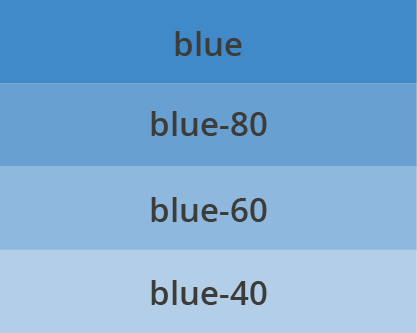
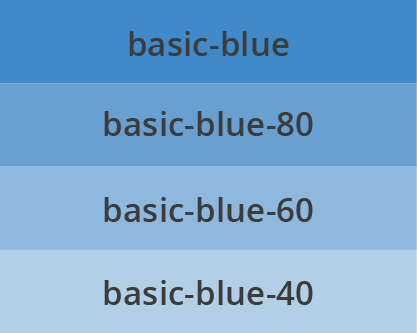
added color classes

diff --git a/webui/css/bridge.css b/webui/css/bridge.css
@@ -811,3 +811,225 @@ h3{
     font-style:italic;
     text-transform:uppercase;
     }
+
+/* colors */
+
+.basic-blue{
+background-color:#418AC9;
+}
+.basic-blue-font{
+color:#418AC9;
+}
+.basic-blue-100{
+background-color:#418AC9;
+}
+.basic-blue-font-100{
+color:#418AC9;
+}
+.basic-blue-80{
+background-color:#68A1D4;
+}
+.basic-blue-font-80{
+color:#68A1D4;
+}
+.basic-blue-60{
+background-color:#8EB9DF;
+}
+.basic-blue-font-60{
+color:#8EB9DF;
+}
+.basic-blue-40{
+background-color:#B3D0E9;
+}
+.basic-blue-font-40{
+color:#B3D0E9;
+}
+
+.green{
+background-color:#4EA175;
+}
+.green-font{
+color:#4EA175;
+}
+.green-100{
+background-color:#4EA175;
+}
+.green-font-100{
+color:#4EA175;
+}
+.green-80{
+background-color:#7AB997;
+}
+.green-font-80{
+color:#7AB997;
+}
+.green-60{
+background-color:#A7D0BA;
+}
+.green-font-60{
+color:#A7D0BA;
+}
+.green-40{
+background-color:#D3E6DC;
+}
+.green-font-40{
+color:#D3E6DC;
+}
+
+.red{
+background-color:#D53F26;
+}
+.red-font{
+color:#D53F26;
+}
+.red-100{
+background-color:#D53F26;
+}
+.red-font-100{
+color:#D53F26;
+}
+.red-80{
+background-color:#DD6551;
+}
+.red-font-80{
+color:#DD6551;
+}
+.red-60{
+background-color:#E68C7D;
+}
+.red-font-60{
+color:#E68C7D;
+}
+.red-40{
+background-color:#EEB2A8;
+}
+.red-font-40{
+color:#EEB2A8;
+}
+
+.purple{
+background-color:#8561c5;
+}
+.purple-font{
+color:#8561c5;
+}
+.purple-100{
+background-color:#8561c5;
+}
+.purple-font-100{
+color:#8561c5;
+}
+.purple-80{
+background-color:#a489d4;
+}
+.purple-font-80{
+color:#a489d4;
+}
+.purple-60{
+background-color:#c2b0e2;
+}
+.purple-font-60{
+color:#c2b0e2;
+}
+.purple-40{
+background-color:#d2c6e5;
+}
+.purple-font-40{
+color:#d2c6e5;
+}
+
+
+.yellow{
+background-color:#fcb517;
+}
+.yellow-font{
+color:#fcb517;
+}
+.yellow-100{
+background-color:#fcb517;
+}
+.yellow-font-100{
+color:#fcb517;
+}
+.yellow-80{
+background-color:#FCC445;
+}
+.yellow-font-80{
+color:#FCC445;
+}
+.yellow-60{
+background-color:#FCD274;
+}
+.yellow-font-60{
+color:#FCD274;
+}
+.yellow-40{
+background-color:#FEE0A1;
+}
+.yellow-font-40{
+color:#FEE0A1;
+}
+
+
+.orange{
+background-color:#E76F24;
+}
+.orange-font{
+color:#E76F24;
+}
+.orange-100{
+background-color:#E76F24;
+}
+.orange-font-100{
+color:#E76F24;
+}
+.orange-80{
+background-color:#EC8948;
+}
+.orange-font-80{
+color:#EC8948;
+}
+.orange-60{
+background-color:#F0A470;
+}
+.orange-font-60{
+color:#F0A470;
+}
+.orange-40{
+background-color:#F5C099;
+}
+.orange-font-40{
+color:#F5C099;
+}
+
+
+.grey{
+background-color:#707070;
+}
+.grey-font{
+color:#707070;
+}
+.grey-100{
+background-color:#707070;
+}
+.grey-font-100{
+color:#707070;
+}
+.grey-80{
+background-color:#8a8a8a;
+}
+.grey-font-80{
+color:#8a8a8a;
+}
+.grey-60{
+background-color:#a6a6a6;
+}
+.grey-font-60{
+color:#a6a6a6;
+}
+.grey-40{
+background-color:#c3c3c3;
+}
+.grey-font-40{
+color:#c3c3c3;
+}
